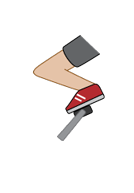
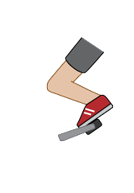
Integrated new images for biker's legs to increase animation resolution.

Changed region(s): [[0.2388, 0.1865, 0.8657, 0.7461]]

diff --git a/trunk/simulations-java/simulations/energy-forms-and-changes/src/edu/colorado/phet/energyformsandchanges/EnergyFormsAndChangesResources.java b/trunk/simulations-java/simulations/energy-forms-and-changes/src/edu/colorado/phet/energyformsandchanges/EnergyFormsAndChangesResources.java
@@ -26,7 +26,19 @@ public class EnergyFormsAndChangesResources {
         public static final BufferedImage BACK_LEG_10 = RESOURCES.getImage( "back_leg_10.png" );
         public static final BufferedImage BACK_LEG_11 = RESOURCES.getImage( "back_leg_11.png" );
         public static final BufferedImage BACK_LEG_12 = RESOURCES.getImage( "back_leg_12.png" );
+        public static final BufferedImage BACK_LEG_13 = RESOURCES.getImage( "back_leg_13.png" );
+        public static final BufferedImage BACK_LEG_14 = RESOURCES.getImage( "back_leg_14.png" );
+        public static final BufferedImage BACK_LEG_15 = RESOURCES.getImage( "back_leg_15.png" );
+        public static final BufferedImage BACK_LEG_16 = RESOURCES.getImage( "back_leg_16.png" );
+        public static final BufferedImage BACK_LEG_17 = RESOURCES.getImage( "back_leg_17.png" );
+        public static final BufferedImage BACK_LEG_18 = RESOURCES.getImage( "back_leg_18.png" );
+        public static final BufferedImage BACK_LEG_19 = RESOURCES.getImage( "back_leg_19.png" );
         public static final BufferedImage BACK_LEG_2 = RESOURCES.getImage( "back_leg_2.png" );
+        public static final BufferedImage BACK_LEG_20 = RESOURCES.getImage( "back_leg_20.png" );
+        public static final BufferedImage BACK_LEG_21 = RESOURCES.getImage( "back_leg_21.png" );
+        public static final BufferedImage BACK_LEG_22 = RESOURCES.getImage( "back_leg_22.png" );
+        public static final BufferedImage BACK_LEG_23 = RESOURCES.getImage( "back_leg_23.png" );
+        public static final BufferedImage BACK_LEG_24 = RESOURCES.getImage( "back_leg_24.png" );
         public static final BufferedImage BACK_LEG_3 = RESOURCES.getImage( "back_leg_3.png" );
         public static final BufferedImage BACK_LEG_4 = RESOURCES.getImage( "back_leg_4.png" );
         public static final BufferedImage BACK_LEG_5 = RESOURCES.getImage( "back_leg_5.png" );
@@ -75,7 +87,19 @@ public class EnergyFormsAndChangesResources {
         public static final BufferedImage FRONT_LEG_10 = RESOURCES.getImage( "front_leg_10.png" );
         public static final BufferedImage FRONT_LEG_11 = RESOURCES.getImage( "front_leg_11.png" );
         public static final BufferedImage FRONT_LEG_12 = RESOURCES.getImage( "front_leg_12.png" );
+        public static final BufferedImage FRONT_LEG_13 = RESOURCES.getImage( "front_leg_13.png" );
+        public static final BufferedImage FRONT_LEG_14 = RESOURCES.getImage( "front_leg_14.png" );
+        public static final BufferedImage FRONT_LEG_15 = RESOURCES.getImage( "front_leg_15.png" );
+        public static final BufferedImage FRONT_LEG_16 = RESOURCES.getImage( "front_leg_16.png" );
+        public static final BufferedImage FRONT_LEG_17 = RESOURCES.getImage( "front_leg_17.png" );
+        public static final BufferedImage FRONT_LEG_18 = RESOURCES.getImage( "front_leg_18.png" );
+        public static final BufferedImage FRONT_LEG_19 = RESOURCES.getImage( "front_leg_19.png" );
         public static final BufferedImage FRONT_LEG_2 = RESOURCES.getImage( "front_leg_2.png" );
+        public static final BufferedImage FRONT_LEG_20 = RESOURCES.getImage( "front_leg_20.png" );
+        public static final BufferedImage FRONT_LEG_21 = RESOURCES.getImage( "front_leg_21.png" );
+        public static final BufferedImage FRONT_LEG_22 = RESOURCES.getImage( "front_leg_22.png" );
+        public static final BufferedImage FRONT_LEG_23 = RESOURCES.getImage( "front_leg_23.png" );
+        public static final BufferedImage FRONT_LEG_24 = RESOURCES.getImage( "front_leg_24.png" );
         public static final BufferedImage FRONT_LEG_3 = RESOURCES.getImage( "front_leg_3.png" );
         public static final BufferedImage FRONT_LEG_4 = RESOURCES.getImage( "front_leg_4.png" );
         public static final BufferedImage FRONT_LEG_5 = RESOURCES.getImage( "front_leg_5.png" );

diff --git a/trunk/simulations-java/simulations/energy-forms-and-changes/src/edu/colorado/phet/energyformsandchanges/energysystems/model/Biker.java b/trunk/simulations-java/simulations/energy-forms-and-changes/src/edu/colorado/phet/energyformsandchanges/energysystems/model/Biker.java
@@ -67,6 +67,18 @@ public class Biker extends EnergySource {
         add( new ModelElementImage( FRONT_LEG_10, FRAME_CENTER_OFFSET.plus( LEG_IMAGE_OFFSET ) ) );
         add( new ModelElementImage( FRONT_LEG_11, FRAME_CENTER_OFFSET.plus( LEG_IMAGE_OFFSET ) ) );
         add( new ModelElementImage( FRONT_LEG_12, FRAME_CENTER_OFFSET.plus( LEG_IMAGE_OFFSET ) ) );
+        add( new ModelElementImage( FRONT_LEG_13, FRAME_CENTER_OFFSET.plus( LEG_IMAGE_OFFSET ) ) );
+        add( new ModelElementImage( FRONT_LEG_14, FRAME_CENTER_OFFSET.plus( LEG_IMAGE_OFFSET ) ) );
+        add( new ModelElementImage( FRONT_LEG_15, FRAME_CENTER_OFFSET.plus( LEG_IMAGE_OFFSET ) ) );
+        add( new ModelElementImage( FRONT_LEG_16, FRAME_CENTER_OFFSET.plus( LEG_IMAGE_OFFSET ) ) );
+        add( new ModelElementImage( FRONT_LEG_17, FRAME_CENTER_OFFSET.plus( LEG_IMAGE_OFFSET ) ) );
+        add( new ModelElementImage( FRONT_LEG_18, FRAME_CENTER_OFFSET.plus( LEG_IMAGE_OFFSET ) ) );
+        add( new ModelElementImage( FRONT_LEG_19, FRAME_CENTER_OFFSET.plus( LEG_IMAGE_OFFSET ) ) );
+        add( new ModelElementImage( FRONT_LEG_20, FRAME_CENTER_OFFSET.plus( LEG_IMAGE_OFFSET ) ) );
+        add( new ModelElementImage( FRONT_LEG_21, FRAME_CENTER_OFFSET.plus( LEG_IMAGE_OFFSET ) ) );
+        add( new ModelElementImage( FRONT_LEG_22, FRAME_CENTER_OFFSET.plus( LEG_IMAGE_OFFSET ) ) );
+        add( new ModelElementImage( FRONT_LEG_23, FRAME_CENTER_OFFSET.plus( LEG_IMAGE_OFFSET ) ) );
+        add( new ModelElementImage( FRONT_LEG_24, FRAME_CENTER_OFFSET.plus( LEG_IMAGE_OFFSET ) ) );
     }};
 
     public static final List<ModelElementImage> BACK_LEG_IMAGES = new ArrayList<ModelElementImage>() {{
@@ -82,6 +94,18 @@ public class Biker extends EnergySource {
         add( new ModelElementImage( BACK_LEG_10, FRAME_CENTER_OFFSET.plus( LEG_IMAGE_OFFSET ) ) );
         add( new ModelElementImage( BACK_LEG_11, FRAME_CENTER_OFFSET.plus( LEG_IMAGE_OFFSET ) ) );
         add( new ModelElementImage( BACK_LEG_12, FRAME_CENTER_OFFSET.plus( LEG_IMAGE_OFFSET ) ) );
+        add( new ModelElementImage( BACK_LEG_13, FRAME_CENTER_OFFSET.plus( LEG_IMAGE_OFFSET ) ) );
+        add( new ModelElementImage( BACK_LEG_14, FRAME_CENTER_OFFSET.plus( LEG_IMAGE_OFFSET ) ) );
+        add( new ModelElementImage( BACK_LEG_15, FRAME_CENTER_OFFSET.plus( LEG_IMAGE_OFFSET ) ) );
+        add( new ModelElementImage( BACK_LEG_16, FRAME_CENTER_OFFSET.plus( LEG_IMAGE_OFFSET ) ) );
+        add( new ModelElementImage( BACK_LEG_17, FRAME_CENTER_OFFSET.plus( LEG_IMAGE_OFFSET ) ) );
+        add( new ModelElementImage( BACK_LEG_18, FRAME_CENTER_OFFSET.plus( LEG_IMAGE_OFFSET ) ) );
+        add( new ModelElementImage( BACK_LEG_19, FRAME_CENTER_OFFSET.plus( LEG_IMAGE_OFFSET ) ) );
+        add( new ModelElementImage( BACK_LEG_20, FRAME_CENTER_OFFSET.plus( LEG_IMAGE_OFFSET ) ) );
+        add( new ModelElementImage( BACK_LEG_21, FRAME_CENTER_OFFSET.plus( LEG_IMAGE_OFFSET ) ) );
+        add( new ModelElementImage( BACK_LEG_22, FRAME_CENTER_OFFSET.plus( LEG_IMAGE_OFFSET ) ) );
+        add( new ModelElementImage( BACK_LEG_23, FRAME_CENTER_OFFSET.plus( LEG_IMAGE_OFFSET ) ) );
+        add( new ModelElementImage( BACK_LEG_24, FRAME_CENTER_OFFSET.plus( LEG_IMAGE_OFFSET ) ) );
     }};
 
     // Offsets used for creating energy chunk paths.  These need to be
